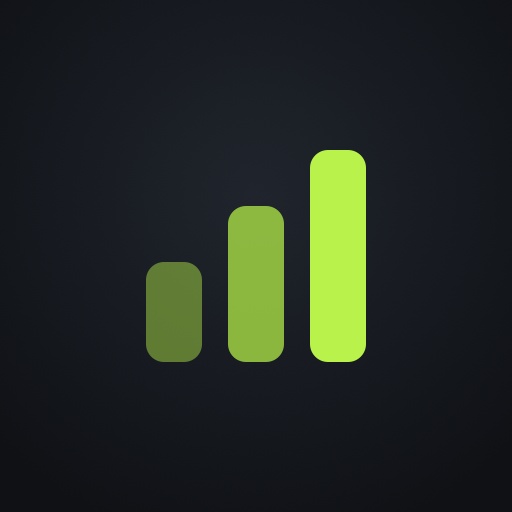
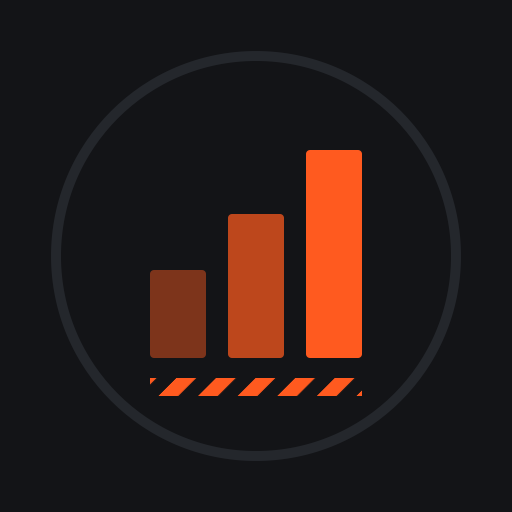
Тема «Завод»: приложение «Машина — построй из себя машину»
- Палитра графит + сигнальный оранжевый, моноширинные цифры, предупреждающие полосы
- Тексты в духе темы: запуск, чертежи, охлаждение, перегрев, отчёт смены, КПД отдыха, наладка
- Рекомендации по весам говорят языком машины (техобслуживание, обкатка)
- Новые аватар, обложка, имя и описание бота

Changed region(s): [[0.2812, 0.2812, 0.7188, 0.7812]]

diff --git a/src/lib/i18n.ts b/src/lib/i18n.ts
@@ -1,16 +1,19 @@
 import type { Lang } from '../logic/types';
 
 const ru = {
-  appName: 'Подход',
-  tagline: 'Дисциплина отдыха и прогресс в весах',
-  startWorkout: 'Начать тренировку',
-  myPlans: 'Мои планы тренировок',
+  appName: 'Машина',
+  tagline: 'Построй из себя машину',
+  startWorkout: 'Запуск',
+  myPlans: 'Чертежи',
   settings: 'Настройки',
+  startHint: 'начать тренировку',
+  plansHint: 'мои планы тренировок',
+  settingsHint: 'тема, язык, документы',
   back: 'Назад',
-  continueWorkout: 'Продолжить тренировку',
-  lastWorkout: 'Последняя тренировка',
-  chooseSession: 'Какая тренировка сегодня?',
-  noSessions: 'Пока нет ни одной тренировки. Создайте её в разделе «Мои планы тренировок».',
+  continueWorkout: 'Продолжить смену',
+  lastWorkout: 'Последняя смена',
+  chooseSession: 'Какую программу запускаем?',
+  noSessions: 'Чертежей пока нет. Создайте первую тренировку в разделе «Чертежи».',
   createSession: 'Создать тренировку',
   newSession: 'Новая тренировка',
   sessionName: 'Название тренировки',
@@ -50,22 +53,22 @@ const ru = {
   addSet: 'Добавить подход',
   fullSets: 'Полностью выполнено: {a} из {b}',
   confirm: 'Подтвердить',
-  rest: 'Отдых',
-  restBetweenExercises: 'Отдых перед следующим упражнением',
-  overtime: 'Отдых затянулся',
+  rest: 'Охлаждение',
+  restBetweenExercises: 'Охлаждение перед следующим упражнением',
+  overtime: 'Перегрев: отдых затянулся',
   next: 'Дальше',
   startSet: 'Начать подход',
   startNextExercise: 'Начать упражнение',
-  finishWorkout: 'Завершить тренировку',
-  finishWorkoutQ: 'Завершить тренировку? Невыполненные упражнения будут отмечены как пропущенные.',
-  summary: 'Итоги тренировки',
-  duration: 'Время',
-  restDiscipline: 'Дисциплина отдыха',
+  finishWorkout: 'Завершить смену',
+  finishWorkoutQ: 'Завершить смену? Невыполненные упражнения будут отмечены как пропущенные.',
+  summary: 'Отчёт смены',
+  duration: 'Смена',
+  restDiscipline: 'КПД отдыха',
   onTime: 'вовремя',
   avgOver: 'средний перебор',
-  recommendations: 'Рекомендации на следующую тренировку',
-  applyToPlan: 'Применить к плану',
-  appliedToPlan: 'Веса в плане обновлены',
+  recommendations: 'Наладка на следующую смену',
+  applyToPlan: 'Внести в чертёж',
+  appliedToPlan: 'Чертёж обновлён',
   skipped: 'пропущено',
   toHome: 'На главную',
   theme: 'Тема',
@@ -97,16 +100,19 @@ const ru = {
 type Dict = typeof ru;
 
 const en: Dict = {
-  appName: 'Podkhod',
-  tagline: 'Rest discipline and steady weight progress',
-  startWorkout: 'Start workout',
-  myPlans: 'My workout plans',
+  appName: 'Machine',
+  tagline: 'Build yourself into a machine',
+  startWorkout: 'Start',
+  myPlans: 'Blueprints',
   settings: 'Settings',
+  startHint: 'start a workout',
+  plansHint: 'my workout plans',
+  settingsHint: 'theme, language, documents',
   back: 'Back',
-  continueWorkout: 'Continue workout',
-  lastWorkout: 'Last workout',
-  chooseSession: "Which workout is today?",
-  noSessions: 'No workouts yet. Create one in “My workout plans”.',
+  continueWorkout: 'Continue shift',
+  lastWorkout: 'Last shift',
+  chooseSession: 'Which program are we running?',
+  noSessions: 'No blueprints yet. Create your first workout in “Blueprints”.',
   createSession: 'Create workout',
   newSession: 'New workout',
   sessionName: 'Workout name',
@@ -146,22 +152,22 @@ const en: Dict = {
   addSet: 'Add set',
   fullSets: 'Fully completed: {a} of {b}',
   confirm: 'Confirm',
-  rest: 'Rest',
-  restBetweenExercises: 'Rest before the next exercise',
-  overtime: 'Rest is running over',
+  rest: 'Cooldown',
+  restBetweenExercises: 'Cooldown before the next exercise',
+  overtime: 'Overheating: rest is running over',
   next: 'Next',
   startSet: 'Start set',
   startNextExercise: 'Start exercise',
-  finishWorkout: 'Finish workout',
-  finishWorkoutQ: 'Finish the workout? Remaining exercises will be marked as skipped.',
-  summary: 'Workout summary',
-  duration: 'Duration',
-  restDiscipline: 'Rest discipline',
+  finishWorkout: 'Finish shift',
+  finishWorkoutQ: 'Finish the shift? Remaining exercises will be marked as skipped.',
+  summary: 'Shift report',
+  duration: 'Shift',
+  restDiscipline: 'Rest efficiency',
   onTime: 'on time',
   avgOver: 'avg overrun',
-  recommendations: 'Recommendations for next time',
-  applyToPlan: 'Apply to plan',
-  appliedToPlan: 'Plan weights updated',
+  recommendations: 'Tuning for the next shift',
+  applyToPlan: 'Save to blueprint',
+  appliedToPlan: 'Blueprint updated',
   skipped: 'skipped',
   toHome: 'Home',
   theme: 'Theme',

diff --git a/src/logic/progression.ts b/src/logic/progression.ts
@@ -116,11 +116,11 @@ export function recommend(cur: ProgressInput, prev?: PrevInfo): Recommendation {
     if (streak >= need) {
       const next = roundDown(W + step, step);
       if (rebuilding && next >= (base.rebuildTarget as number)) {
-        msgs.push(`Все подходы выполнены. Разгон почти завершён: возвращаемся к ${fmtKg(next)} кг.`);
+        msgs.push(`Норма выполнена. Разгон почти завершён: возвращаемся к ${fmtKg(next)} кг.`);
       } else if (base.rebuildTarget != null && W === base.rebuildTarget) {
-        msgs.push(`Вы взяли вес, на котором был застой. Отлично! Следующая цель — ${fmtKg(next)} кг.`);
+        msgs.push(`Вес, на котором машина буксовала, взят. Следующая цель — ${fmtKg(next)} кг.`);
       } else {
-        msgs.push(`Все подходы выполнены. В следующий раз ${fmtKg(next)} кг (+${fmtKg(step)}).`);
+        msgs.push(`Норма выполнена. Повышаем нагрузку: в следующий раз ${fmtKg(next)} кг (+${fmtKg(step)}).`);
       }
       return finish({
         action: 'increase',
@@ -129,7 +129,7 @@ export function recommend(cur: ProgressInput, prev?: PrevInfo): Recommendation {
         state: { weight: next, successStreak: 0, failStreak: 0, rebuildTarget, resetCount },
       });
     }
-    msgs.push(`Все подходы выполнены. В изолирующих упражнениях закрепляем вес ещё на одну тренировку: снова ${fmtKg(W)} кг, потом прибавка.`);
+    msgs.push(`Норма выполнена. В изолирующих упражнениях обкатываем вес ещё одну смену: снова ${fmtKg(W)} кг, потом прибавка.`);
     return finish({
       action: 'hold',
       nextWeight: W,
@@ -153,7 +153,7 @@ export function recommend(cur: ProgressInput, prev?: PrevInfo): Recommendation {
         nextWeight: next,
         nextReps: reps,
         messages: [
-          `${fmtKg(W)} кг снова не поддались после отката. Нужна смена подхода, выберите один вариант:`,
+          `${fmtKg(W)} кг снова не поддались после отката. Машине нужна перенастройка, выберите один вариант:`,
           `• уменьшить шаг до ${fmtKg(half)} кг (мини-блины) и разогнаться от ${fmtKg(next)} кг;`,
           `• сменить схему ${S}×${reps} → ${S}×${Math.max(1, reps - 2)}, набрать вес, затем вернуть повторы.`,
         ],
@@ -171,8 +171,8 @@ export function recommend(cur: ProgressInput, prev?: PrevInfo): Recommendation {
       nextReps: reps,
       ladder,
       messages: [
-        `Две тренировки подряд ${fmtKg(target)} кг не взяты полностью — вес «встал». Делаем откат на 10%: ${fmtKg(next)} кг.`,
-        `План разгона: ${ladder.map(fmtKg).join(' → ')} кг. Так вы вернётесь к ${fmtKg(target)} кг со свежими силами и перешагнёте его.`,
+        `Две смены подряд ${fmtKg(target)} кг не взяты полностью: машина упёрлась. Плановое техобслуживание — откат на 10%, до ${fmtKg(next)} кг.`,
+        `План разгона: ${ladder.map(fmtKg).join(' → ')} кг. После обкатки машина вернётся к ${fmtKg(target)} кг и перешагнёт его.`,
       ],
       state: { weight: next, successStreak: 0, failStreak: 0, rebuildTarget: target, resetCount },
     });

diff --git a/src/styles.css b/src/styles.css
@@ -1,38 +1,41 @@
-/* Тёмная тема по умолчанию: в зале часто тусклый свет, а экран не должен слепить */
+/* Тема «Завод»: графит, сигнальный оранжевый, цифры как на панели станка.
+   Тёмная по умолчанию: в зале часто тусклый свет, а экран не должен слепить */
 :root {
-  --bg: #0f1115;
-  --surface: #181b21;
-  --surface-2: #22262e;
-  --line: #2c313a;
-  --text: #f1f3f5;
-  --muted: #8b93a1;
-  --accent: #b8f24a;
-  --accent-ink: #0f1400;
-  --warn: #ffb020;
-  --danger: #ff5d5d;
-  --fig: #f1f3f5;
-  --fig-far: #5b6270;
-  --equip: #b8f24a;
-  --scene: #3a404b;
-  --radius: 16px;
+  --bg: #131417;
+  --surface: #1b1d21;
+  --surface-2: #24272c;
+  --line: #31353c;
+  --text: #f2f2f0;
+  --muted: #8a8f98;
+  --accent: #ff5a1f;
+  --accent-ink: #1a0a02;
+  --warn: #ffc21a;
+  --danger: #ff3b3b;
+  --fig: #f2f2f0;
+  --fig-far: #5c616b;
+  --equip: #ff5a1f;
+  --scene: #3a3e46;
+  --radius: 10px;
   --tap: 52px;
+  --mono: 'SF Mono', ui-monospace, 'JetBrains Mono', 'Roboto Mono', Menlo, Consolas, monospace;
+  --hazard: repeating-linear-gradient(-45deg, var(--accent) 0 8px, transparent 8px 16px);
   color-scheme: dark;
 }
 :root[data-theme='light'] {
-  --bg: #f4f5f2;
+  --bg: #efeeea;
   --surface: #ffffff;
-  --surface-2: #eceee9;
-  --line: #dfe2dc;
-  --text: #15181c;
-  --muted: #6a717c;
-  --accent: #4f8a00;
+  --surface-2: #e6e5e0;
+  --line: #d6d4cd;
+  --text: #17181b;
+  --muted: #676b73;
+  --accent: #e04a0e;
   --accent-ink: #ffffff;
-  --warn: #c77700;
-  --danger: #d63b3b;
-  --fig: #20242a;
-  --fig-far: #b4bac3;
-  --equip: #4f8a00;
-  --scene: #c9cdc5;
+  --warn: #b98200;
+  --danger: #d32626;
+  --fig: #1d1f23;
+  --fig-far: #b0b3b9;
+  --equip: #e04a0e;
+  --scene: #c7c5bd;
   color-scheme: light;
 }
 
@@ -269,3 +272,17 @@ button:disabled { opacity: 0.4; cursor: default; }
 .reps-list li.zero { opacity: 0.6; }
 .reps-list .stepper-row { background: var(--surface); }
 .reps-set { font-weight: 700; }
+
+/* ===== Тема «Завод» ===== */
+.big, .ring-time, .stat-value, .stepper-value, .reco-next, .num, .workout-target .big { font-family: var(--mono); letter-spacing: -0.02em; }
+.btn-primary { text-transform: uppercase; letter-spacing: 0.08em; }
+.btn-xxl { border-radius: 14px; }
+.brand { font-family: var(--mono); text-transform: uppercase; letter-spacing: 0.14em; font-weight: 800; font-size: 32px; }
+.brand-mark span { border-radius: 2px; }
+.tagline { text-transform: uppercase; letter-spacing: 0.12em; font-size: 12px; }
+.hazard { height: 6px; width: 120px; background: var(--hazard); border-radius: 1px; opacity: 0.9; }
+.home-actions .btn { align-items: flex-start; text-align: left; padding: 14px 18px; }
+.home-actions .btn small { text-transform: none; letter-spacing: 0; font-weight: 500; }
+.section-title, .stepper-label, .field-label { letter-spacing: 0.06em; }
+.rest.over::before { content: ''; position: fixed; left: 0; right: 0; top: 0; height: 6px; background: repeating-linear-gradient(-45deg, var(--danger) 0 8px, transparent 8px 16px); }
+.chip.on { background: var(--accent); color: var(--accent-ink); border-color: var(--accent); }

diff --git a/src/screens/Home.tsx b/src/screens/Home.tsx
@@ -18,6 +18,7 @@ export function Home() {
           <span />
         </div>
         <h1 className="brand">{t('appName')}</h1>
+        <div className="hazard" aria-hidden="true" />
         <p className="tagline">{t('tagline')}</p>
       </div>
 
@@ -30,13 +31,16 @@ export function Home() {
         ) : (
           <button className="btn btn-primary btn-xl" onClick={() => push({ name: 'pick' })}>
             {t('startWorkout')}
+            <small>{t('startHint')}</small>
           </button>
         )}
         <button className="btn btn-xl" onClick={() => push({ name: 'plans' })}>
           {t('myPlans')}
+          <small className="muted">{t('plansHint')}</small>
         </button>
         <button className="btn btn-xl" onClick={() => push({ name: 'settings' })}>
           {t('settings')}
+          <small className="muted">{t('settingsHint')}</small>
         </button>
       </nav>
 

diff --git a/src/lib/app.tsx b/src/lib/app.tsx
@@ -78,7 +78,7 @@ export function AppProvider({ children }: { children: ReactNode }) {
     const apply = () => {
       const theme = resolveTheme(settings);
       document.documentElement.dataset.theme = theme;
-      const bg = theme === 'dark' ? '#0f1115' : '#f4f5f2';
+      const bg = theme === 'dark' ? '#131417' : '#efeeea';
       document.querySelector('meta[name="theme-color"]')?.setAttribute('content', bg);
       if (tg?.isVersionAtLeast('6.1')) {
         tg.setHeaderColor?.(bg);

diff --git a/index.html b/index.html
@@ -3,8 +3,8 @@
   <head>
     <meta charset="UTF-8" />
     <meta name="viewport" content="width=device-width, initial-scale=1, viewport-fit=cover, user-scalable=no" />
-    <meta name="theme-color" content="#0f1115" />
-    <title>Подход</title>
+    <meta name="theme-color" content="#131417" />
+    <title>Машина</title>
     <script src="https://telegram.org/js/telegram-web-app.js"></script>
   </head>
   <body>

diff --git a/branding/bot-profile.md b/branding/bot-profile.md
@@ -1,37 +1,32 @@
-# Оформление бота в @BotFather
+# Оформление бота в @BotFather — тема «Завод»
 
-Всё делается в @BotFather: `/mybots` → ваш бот → **Edit Bot**.
+Тексты, аватар и кнопка меню выставляются скриптом `node scripts/setup-bot.mjs`
+(токен в `.env.bot`). Картинку описания Bot API не поддерживает — она загружается вручную:
+`/mybots` → бот → **Edit Bot** → **Edit Description Picture** → `bot-cover.png`.
 
-| Что | Команда | Лимит | Где видно |
-|---|---|---|---|
-| Имя | Edit Name (`/setname`) | 64 символа | Заголовок чата и список чатов |
-| Описание «О себе» | Edit About (`/setabouttext`) | 120 символов | Профиль бота и превью ссылки |
-| Описание | Edit Description (`/setdescription`) | 512 символов | Пустой чат до нажатия «Start» |
-| Картинка описания | Edit Description Picture | 640×360 | Над описанием в пустом чате |
-| Аватар | Edit Botpic (`/setuserpic`) | квадрат | Везде |
-| Кнопка меню | Bot Settings → Menu Button | — | Слева от поля ввода |
-
-## Имя
+## Имя (31/64)
 ```
-Подход — дневник тренировок
+Машина — построй из себя машину
 ```
 
-## О себе (About)
+## О себе (98/120)
 ```
-План тренировок, строгий таймер отдыха и подсказки, когда добавлять вес. Откройте кнопкой «Тренировка».
+Построй из себя машину: чертёж тренировок, строгий отдых по таймеру и наладка весов. Жми «Запуск».
 ```
 
-## Описание (Description)
+## Описание (437/512)
 ```
-Подход — дневник тренировок прямо в Telegram.
+МАШИНА — построй из себя машину.
 
-• Составьте свои тренировки из каталога на 190 упражнений с анимацией.
-• Держите отдых между подходами: таймер напомнит, если вы отвлеклись.
-• После тренировки получите подсказки, когда добавлять вес, а когда откатиться и разогнаться заново.
+Машина работает по чертежу, держит режим и с каждой сменой выдаёт больше. Здесь так же:
+
+• Чертежи — свои тренировки из каталога на 200 упражнений с анимацией.
+• Охлаждение — таймер держит отдых между подходами и не даёт отвлечься.
+• Наладка — после смены подскажет, когда добавить вес, а когда пройти техобслуживание и разогнаться заново.
 
 Данные хранятся только на вашем телефоне.
 
-Нажмите кнопку «Тренировка» внизу, чтобы начать.
+Жми «Запуск» внизу.
 ```
 
 ## Картинки
@@ -39,8 +34,7 @@
 - Картинка описания: `bot-cover.png` (640×360)
 
 ## Кнопка меню
-Ссылка: `https://vovamarxist-dev.github.io/fitness-tracker/`, название: `Тренировка`.
+`Запуск` → `https://vovamarxist-dev.github.io/fitness-tracker/`
 
-## Команды (/setcommands) — пока не задаём
-У бота нет сервера, поэтому на сообщения и команды он не отвечает. Команды появятся,
-когда добавим серверную часть (напоминания от бота, поддержка).
+## Команды — пока не задаём
+У бота нет сервера, поэтому на сообщения и команды он не отвечает.

diff --git a/README.md b/README.md
@@ -1,4 +1,4 @@
-# Подход — трекер тренировок (Telegram Mini App)
+# Машина — построй из себя машину (Telegram Mini App)
 
 Тестовая версия (MVP): свой план тренировок, строгий таймер отдыха и рекомендации по весам после тренировки.
 
